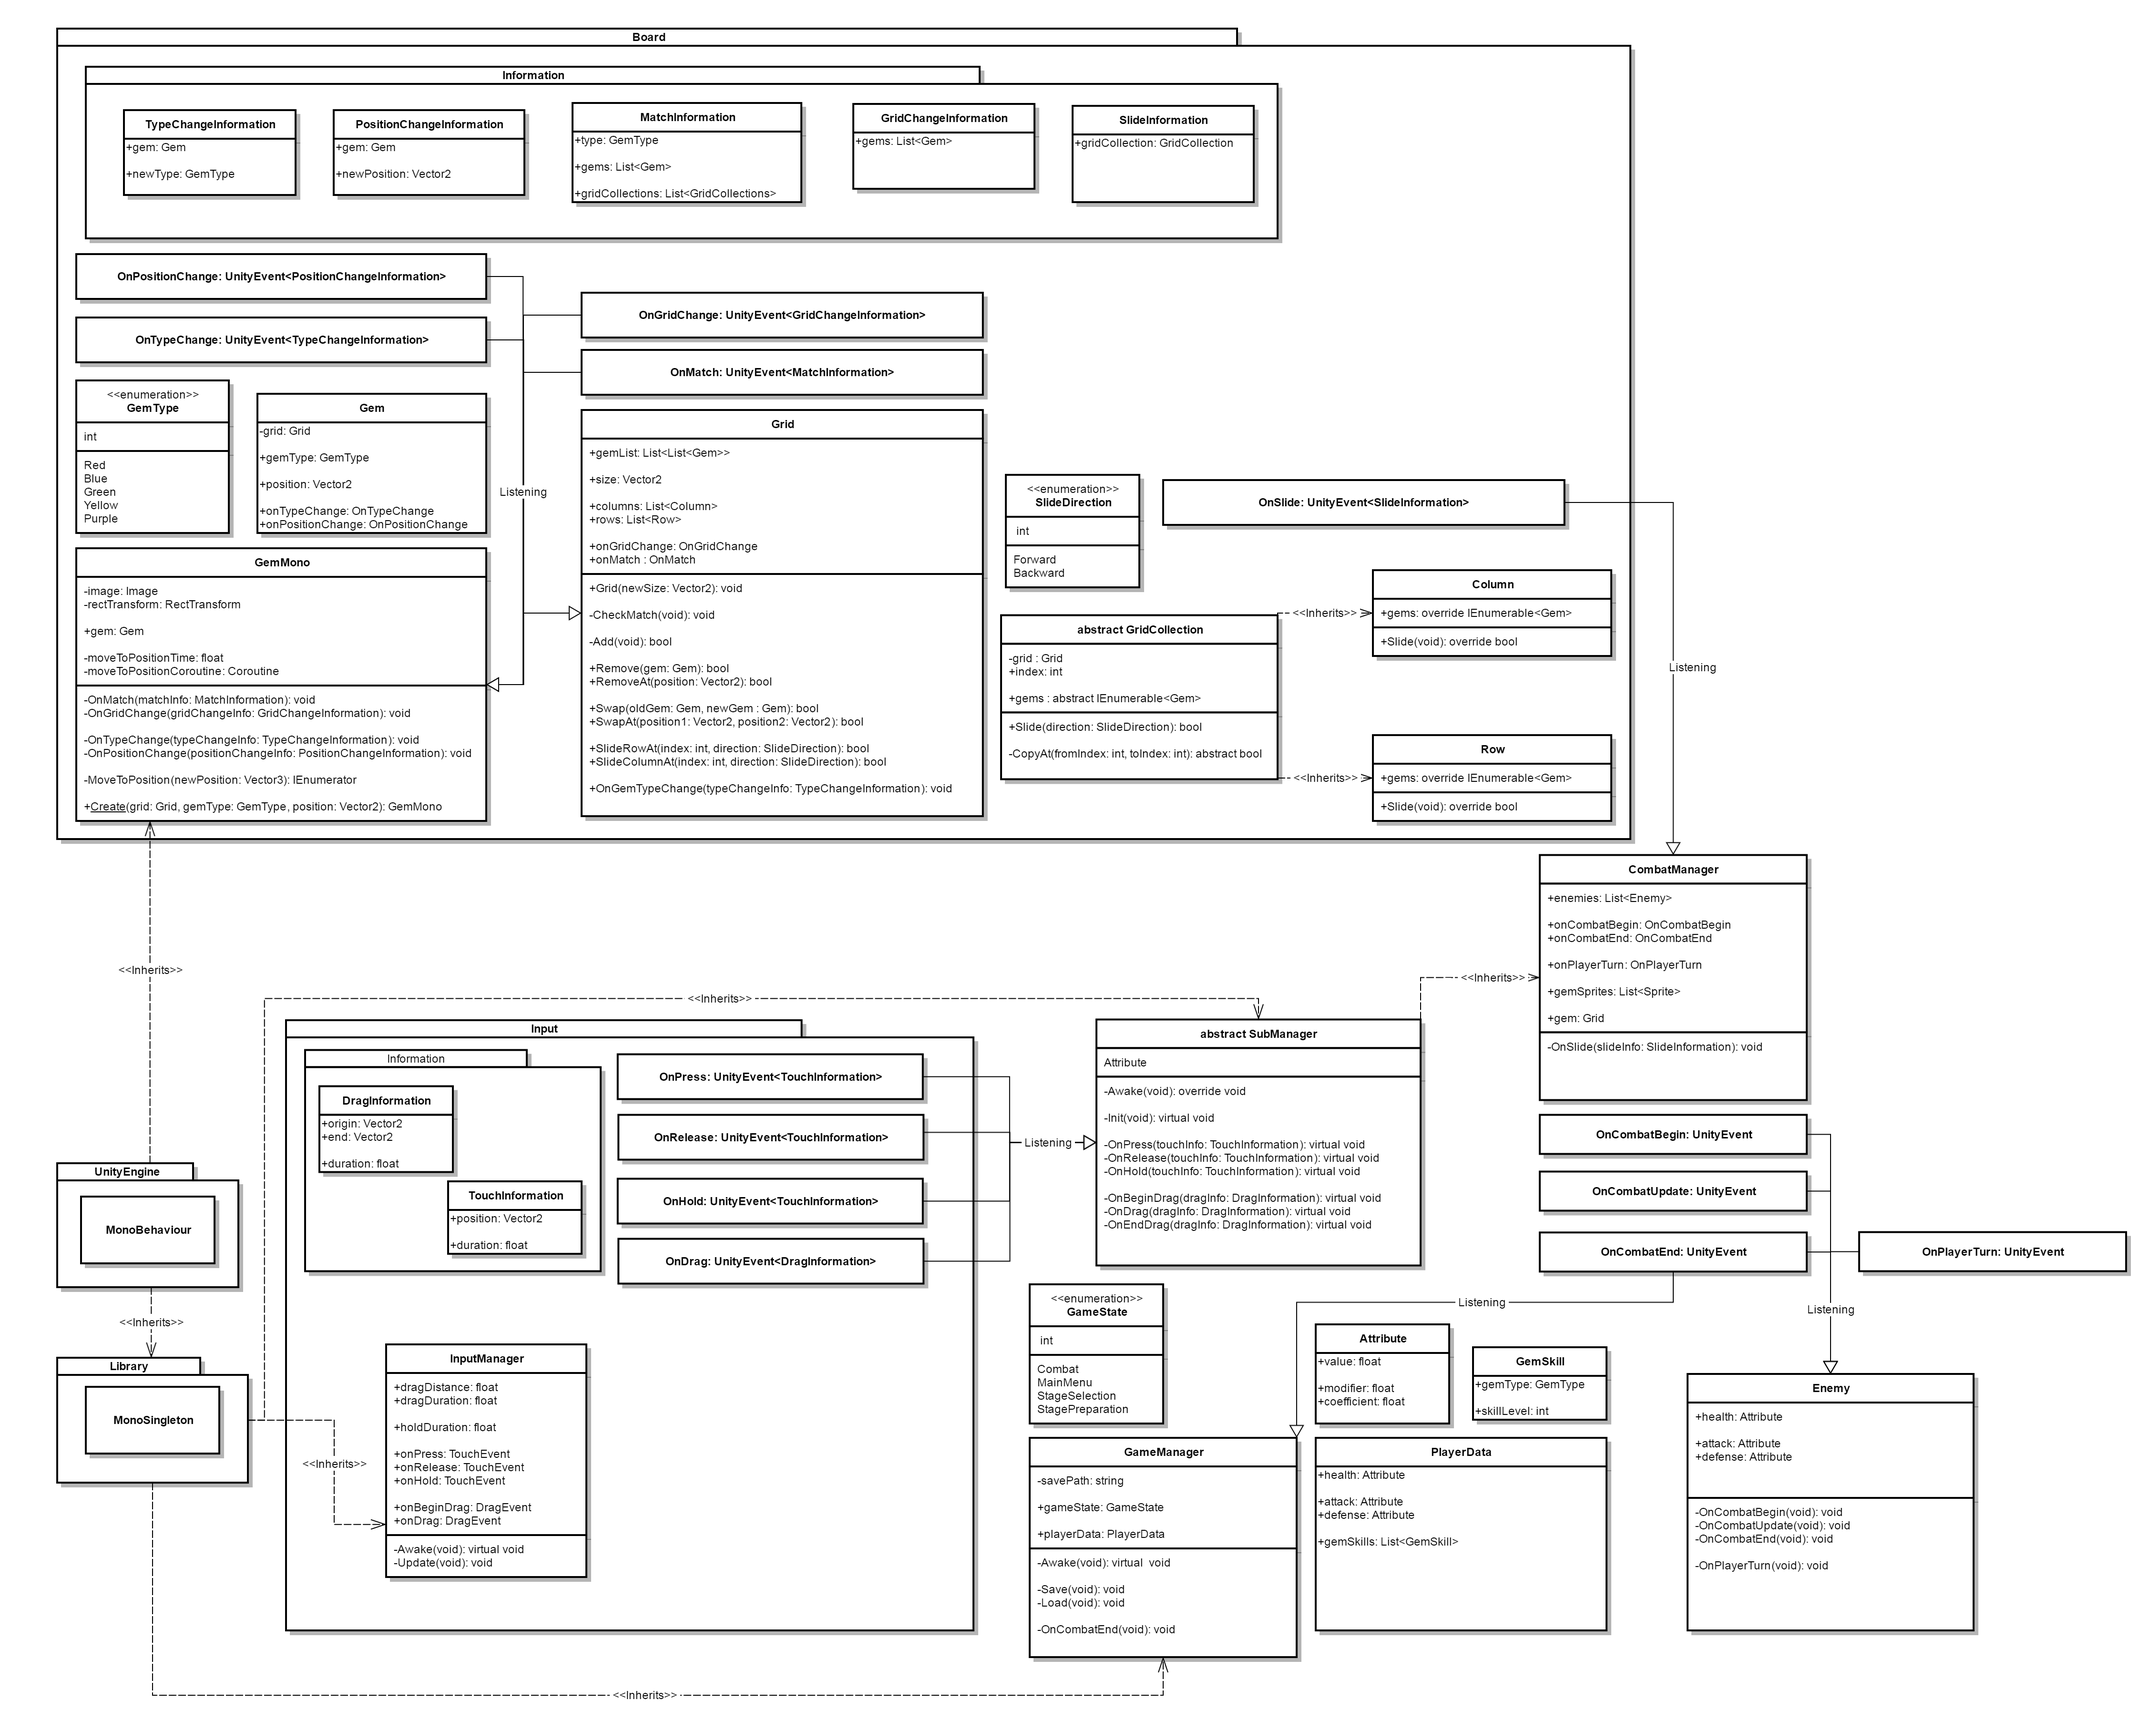
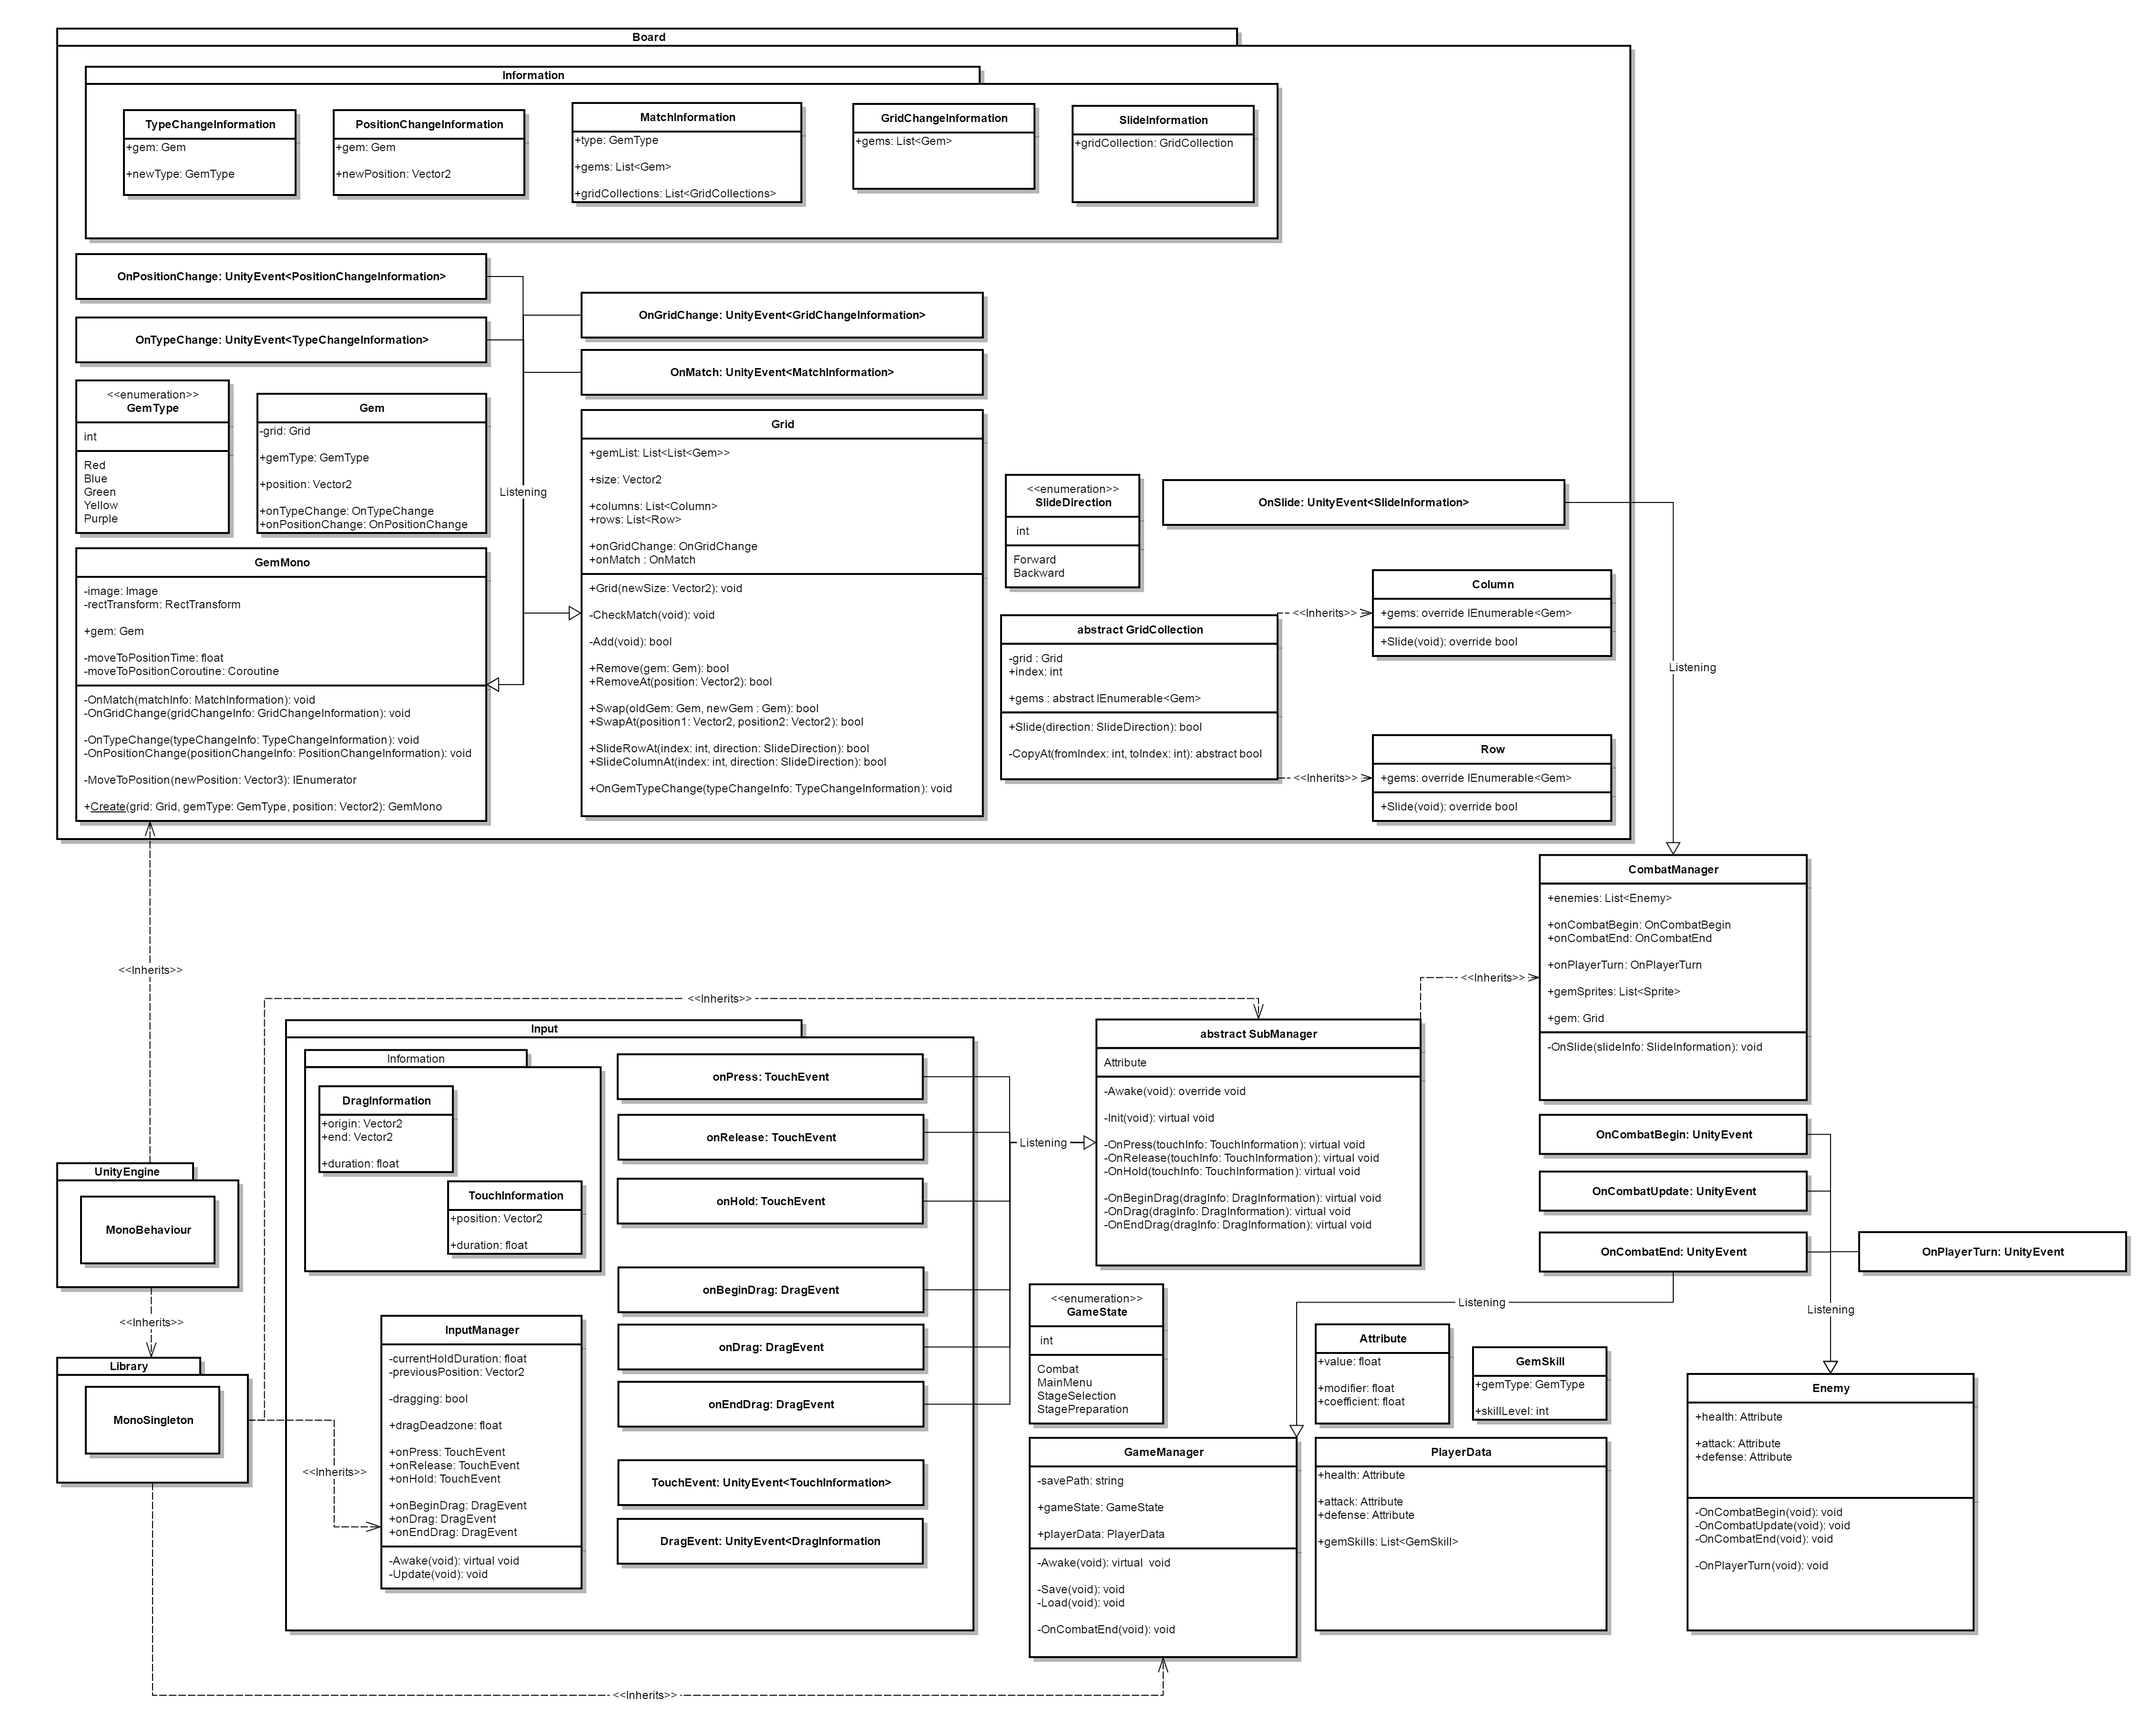
Begin and End Drag Callback
Implemented the Begin and End Drag Callbacks

Updated UML to match changes to InputManager.cs, CombatManager.cs and
SubManager.cs

Changed region(s): [[0.1553, 0.7136, 0.4348, 0.9307]]

diff --git a/Assets/Scripts/Input/InputManager.cs b/Assets/Scripts/Input/InputManager.cs
@@ -17,12 +17,7 @@
     public class InputManager : MonoSingleton<InputManager>
     {
         [SerializeField]
-        private float m_DragDistance;
-        [SerializeField]
-        private float m_DragDuration;
-
-        [SerializeField]
-        private float m_HoldDuration;
+        private float m_DragDeadzone;
 
         [SerializeField, Space]
         private TouchEvent m_OnPress = new TouchEvent();
@@ -38,13 +33,12 @@
         [SerializeField]
         private DragEvent m_OnEndDrag = new DragEvent();
 
-        private bool m_MouseWasDown;
         private float m_CurrentHoldDuration;
-        private Vector3 m_PreviousPosition;
+        private Vector2 m_PreviousPosition;
 
-        public float dragDistance { get { return m_DragDistance; } }
-        public float dragDuration { get { return m_DragDuration; } }
-        public float holdDuration { get { return m_HoldDuration; } }
+        private bool m_Dragging;
+
+        public float dragDeadzone { get { return m_DragDeadzone; } }
 
         public TouchEvent onPress { get { return m_OnPress; } }
         public TouchEvent onRelease { get { return m_OnRelease; } }
@@ -65,32 +59,64 @@
         {
             if (Input.GetMouseButtonDown(0))
             {
+                //Debug.Log("Press");
+
                 m_OnPress.Invoke(
                     new TouchInformation { duration = 0f, position = Input.mousePosition });
 
                 m_PreviousPosition = Input.mousePosition;
                 m_CurrentHoldDuration = 0f;
-                m_MouseWasDown = true;
             }
-
-            if (Input.GetMouseButton(0) && m_MouseWasDown)
+            else if (Input.GetMouseButton(0))
             {
-                m_OnHold.Invoke(
-                    new TouchInformation
-                    {
-                        duration = m_CurrentHoldDuration,
-                        position = Input.mousePosition
-                    });
+                if (!m_Dragging &&
+                    Vector2.Distance(m_PreviousPosition, Input.mousePosition) >= m_DragDeadzone)
+                {
+                    //Debug.Log("Begin Drag");
+
+                    m_OnBeginDrag.Invoke(
+                        new DragInformation
+                        {
+                            origin = m_PreviousPosition,
+                            end = Input.mousePosition,
+                            duration = 0f,
+                        });
+
+                    m_Dragging = true;
+                }
+                else if (m_Dragging &&
+                         Vector2.Distance(m_PreviousPosition, Input.mousePosition) >= m_DragDeadzone)
+                {
+                    //Debug.Log("Drag");
+
+                    m_OnDrag.Invoke(
+                        new DragInformation
+                        {
+                            origin = m_PreviousPosition,
+                            end = Input.mousePosition,
+                            duration = m_CurrentHoldDuration
+                        });
+                }
+                else
+                {
+                    //Debug.Log("Hold");
+
+                    m_OnHold.Invoke(
+                        new TouchInformation
+                        {
+                            duration = m_CurrentHoldDuration,
+                            position = Input.mousePosition
+                        });
+                }
 
                 m_CurrentHoldDuration += Time.deltaTime;
-                m_MouseWasDown = false;
             }
-
-            if (Input.GetMouseButtonUp(0))
+            else if (Input.GetMouseButtonUp(0))
             {
-                if (m_CurrentHoldDuration < m_DragDuration &&
-                    Vector3.Distance(m_PreviousPosition, Input.mousePosition) < m_DragDistance)
+                if (!m_Dragging)
                 {
+                    //Debug.Log("Release");
+
                     m_OnRelease.Invoke(
                         new TouchInformation
                         {
@@ -98,9 +124,11 @@
                             position = m_PreviousPosition
                         });
                 }
-                else if (Vector3.Distance(m_PreviousPosition, Input.mousePosition) >= m_DragDistance)
+                else
                 {
-                    m_OnDrag.Invoke(
+                    //Debug.Log("End Drag");
+
+                    m_OnEndDrag.Invoke(
                         new DragInformation
                         {
                             origin = m_PreviousPosition,
@@ -110,7 +138,7 @@
                 }
 
                 m_CurrentHoldDuration = 0f;
-                m_MouseWasDown = false;
+                m_Dragging = false;
             }
         }
     }

diff --git a/Assets/Scripts/Board/GemMono.cs b/Assets/Scripts/Board/GemMono.cs
@@ -61,8 +61,11 @@ namespace Board
             var deltaTime = 0f;
             while (deltaTime < m_MoveToPositionTime)
             {
-                transform.localPosition =
-                    Vector3.Lerp(transform.localPosition, newPosition, deltaTime / m_MoveToPositionTime);
+                m_RectTransform.anchoredPosition =
+                    Vector3.Lerp(
+                        m_RectTransform.anchoredPosition,
+                        newPosition,
+                        deltaTime / m_MoveToPositionTime);
 
                 deltaTime += Time.deltaTime;
 

diff --git a/Assets/Scripts/CombatManager.cs b/Assets/Scripts/CombatManager.cs
@@ -10,7 +10,6 @@ using Input.Information;
 using UnityEngine;
 using UnityEngine.Events;
 using UnityEngine.EventSystems;
-using UnityEngine.UI;
 
 [Serializable]
 public class OnCombatBegin : UnityEvent { }
@@ -69,7 +68,7 @@ public class CombatManager : SubManager<CombatManager>
         onPlayerTurn.Invoke();
     }
 
-    protected override void OnDrag(DragInformation dragInfo)
+    protected override void OnEndDrag(DragInformation dragInfo)
     {
         var pointerEventData =
             new PointerEventData(EventSystem.current) { position = dragInfo.origin };

diff --git a/Assets/Scripts/SubManager.cs b/Assets/Scripts/SubManager.cs
@@ -13,7 +13,10 @@ public abstract class SubManager<T> : MonoSingleton<T> where T : MonoBehaviour
         InputManager.self.onPress.AddListener(OnPress);
         InputManager.self.onRelease.AddListener(OnRelease);
         InputManager.self.onHold.AddListener(OnHold);
+
+        InputManager.self.onBeginDrag.AddListener(OnBeginDrag);
         InputManager.self.onDrag.AddListener(OnDrag);
+        InputManager.self.onEndDrag.AddListener(OnEndDrag);
 
         Init();
     }
